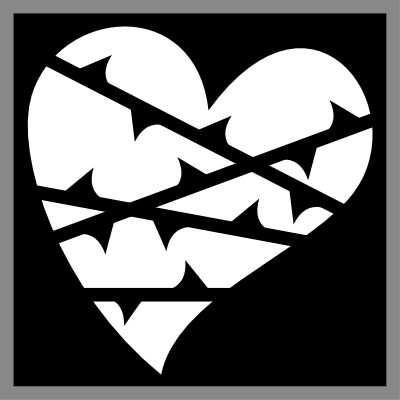
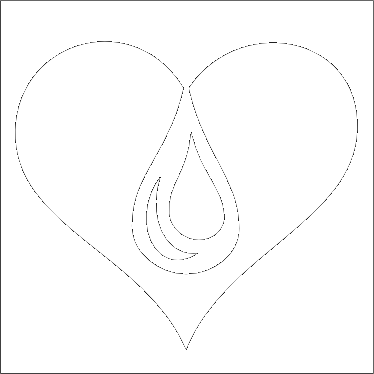
progress

diff --git a/projects/mtg-index/src/styles.css b/projects/mtg-index/src/styles.css
@@ -326,11 +326,6 @@ div.single-box {
     height: 18px;
 }
 
-.win-condition {
-    text-align: center;
-    font-size: 12px
-}
-
 .right-col-icons {
     display: table;
     width: 100%;
@@ -464,15 +459,28 @@ div.single-box {
     color: #3f3f3f;
 }
 
+.win-condition {
+    text-align: center;
+    font-size: 12px;
+    font-weight: bold;
+    padding-right: 10px;
+    width: 110px;
+    > div {
+        padding: 2px 4px;
+        display: inline-flex;
+        align-items: center;
+        border-radius: 8px;
+        white-space: nowrap;
+    }
+}
+
 .wincon-icon {
-    height: 12px;
-    width: 12px;
-    border-radius: 50%;
+    height: 18px;
     margin-right: 2px;
     vertical-align: middle;
 }
 
-.wincon-beatdown { background-color: #E53935; color: #fff; }
+.wincon-beatdown { background-color: #E53935; color: #fff; text-shadow: 0 1px 1px #760c08; border: 1px solid #760c08;  }
 .wincon-spellslinger { background-color: #FB8C00; color: #fff; }
 .wincon-lifedrain { background-color: #6A1B9A; color: #fff; }
 .wincon-toxic { background-color: #2E7D32; color: #fff; }